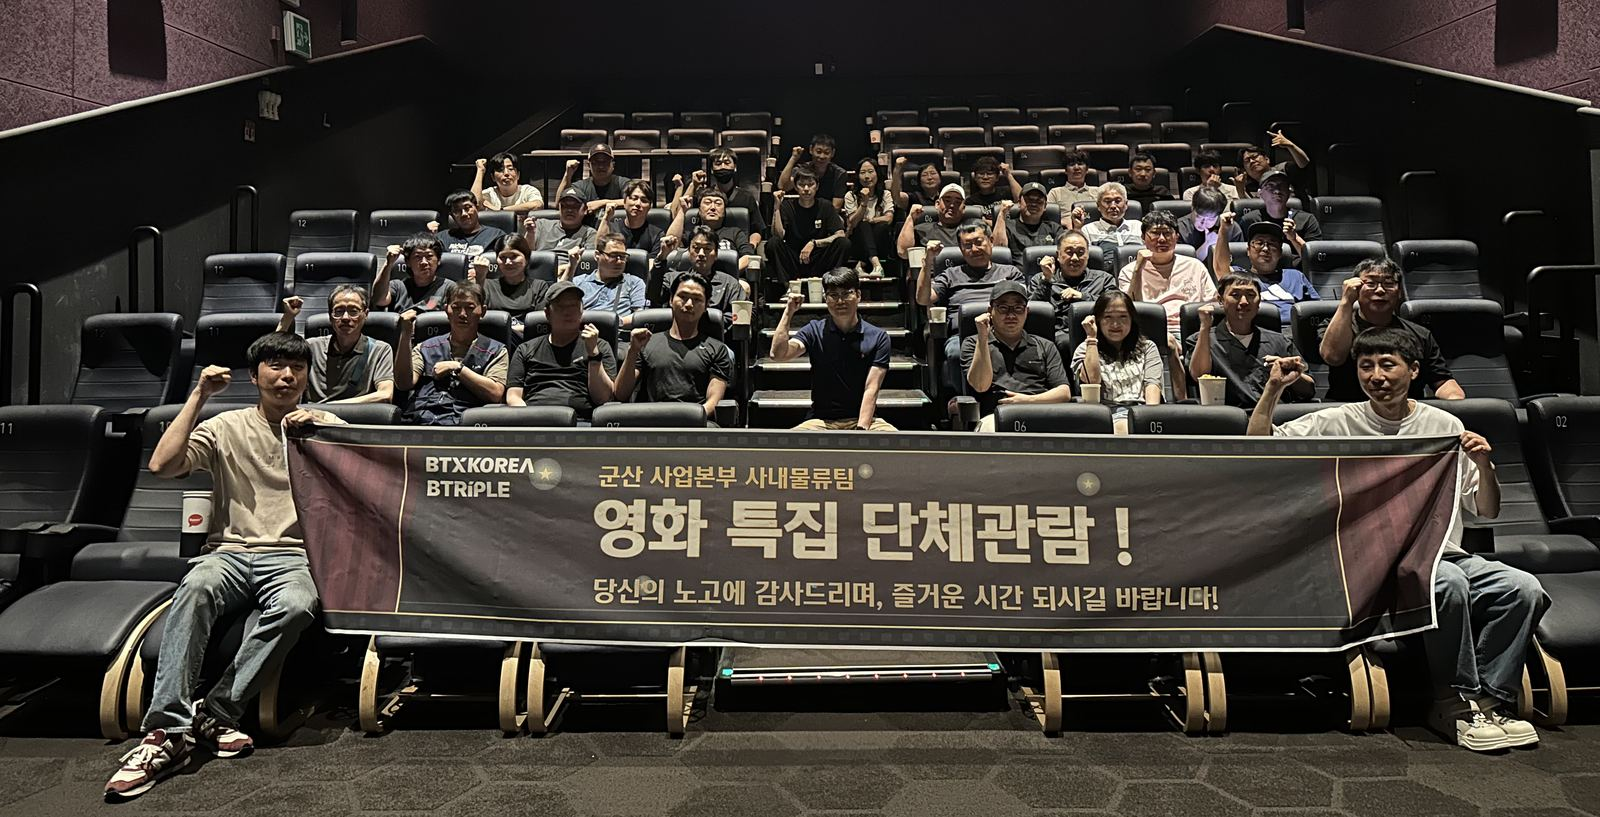
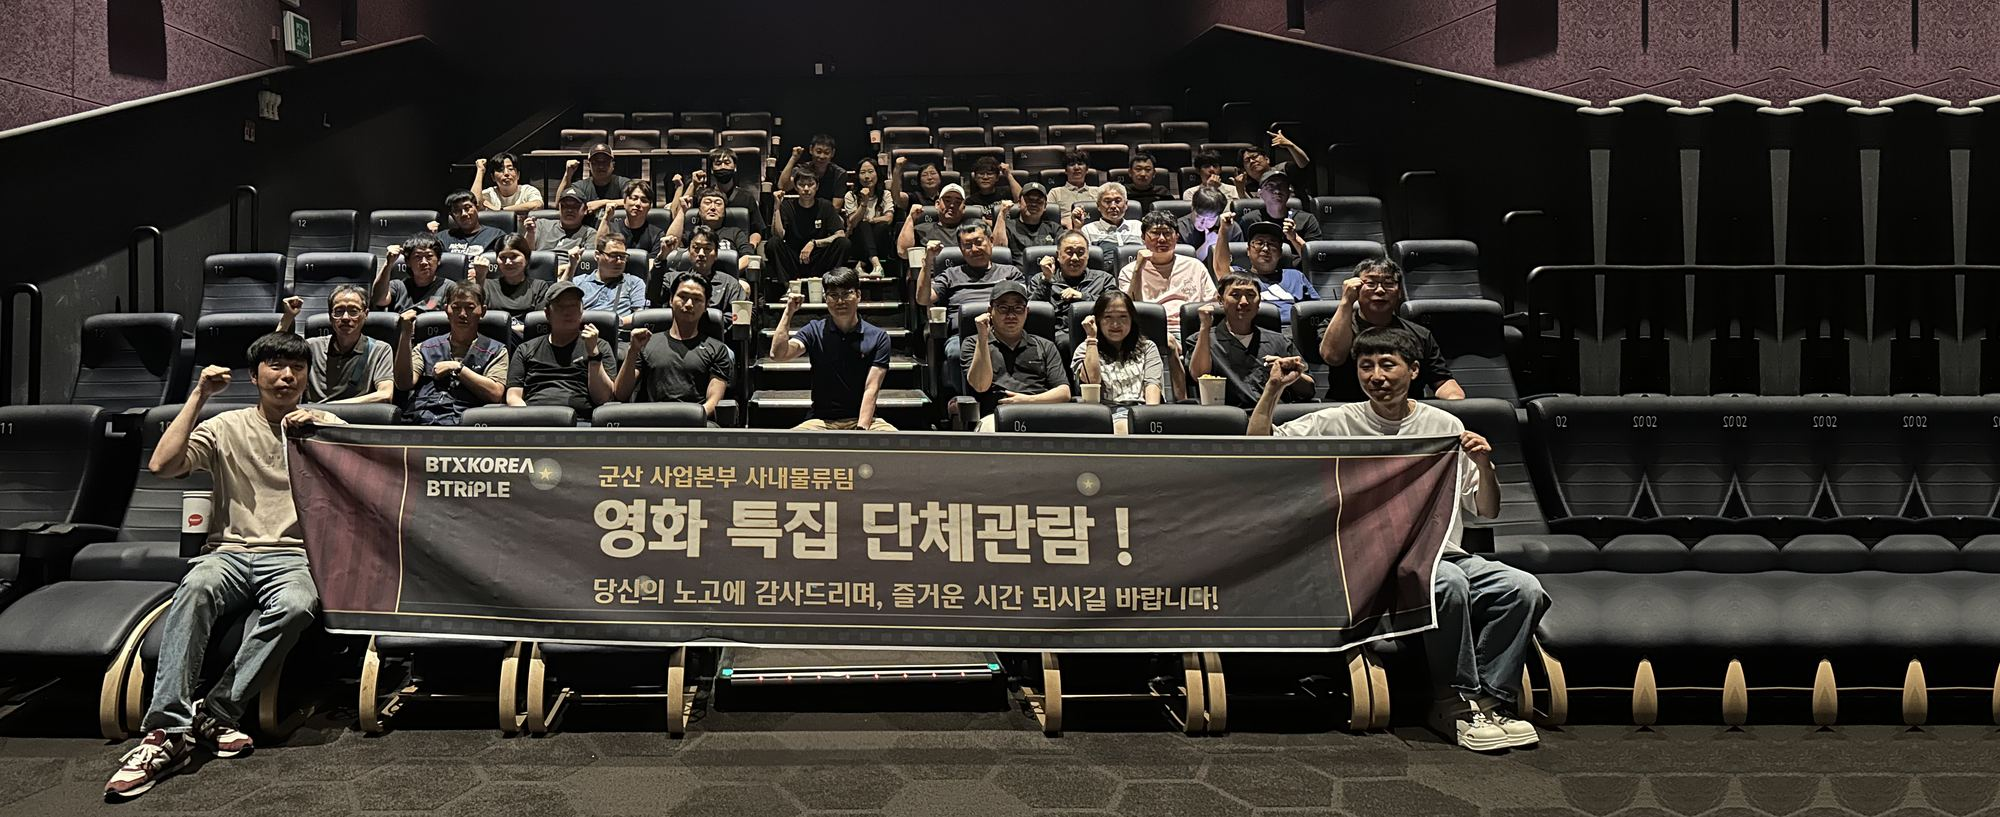
PC 로그인 화면: 흰 번짐 삭제, 오른쪽 파란 번짐, 아래 띠 모양 수정

diff --git a/css/style.css b/css/style.css
@@ -1057,18 +1057,17 @@ table.data select:not([multiple]) { padding-right: 30px; background-position: ri
   -webkit-mask-composite: source-in;
   mask-image: linear-gradient(90deg, #000 0, #000 calc(var(--u) * 17), rgba(0, 0, 0, 0.55) calc(var(--u) * 24), transparent calc(var(--u) * 33)), linear-gradient(180deg, #000 0, #000 30%, rgba(0, 0, 0, 0.72) 45%, rgba(0, 0, 0, 0.72) 100%);
   mask-composite: intersect; }
-/* 단체 사진: 경계선은 직선 두 개(왼쪽 49.6%에서 완만하게, 앞줄 흰 옷 남자 머리 위에서 꺾여 가파르게), 오른쪽으로 갈수록 남색이 진해진다 */
-.la-gbg { background: linear-gradient(90deg, rgba(9, 30, 100, 0) 58%, rgba(9, 30, 100, 0.55) 74%, rgba(9, 30, 100, 0.92) 92%),
-    url(../assets/login/group.jpg) no-repeat calc(var(--u) * -3.85) var(--gtop) / var(--gw) auto, linear-gradient(90deg, #15172a, #0f1e52); }
-.la-group { clip-path: polygon(0 49.6%, var(--kx) 63.1%, 100% 81.2%, 100% 100%, 0 100%); }
-/* 현수막은 아래 남색 띠 위로 올라와 보이게 한 겹 더 놓는다(시안과 같음) */
-.la-banner { z-index: 1; clip-path: polygon(calc(var(--u) * -3.85 + var(--gw) * 0.18) calc(var(--gtop) + var(--gw) * 0.2617), calc(var(--u) * -3.85 + var(--gw) * 0.91) calc(var(--gtop) + var(--gw) * 0.2617),
-  calc(var(--u) * -3.85 + var(--gw) * 0.91) calc(var(--gtop) + var(--gw) * 0.3993), calc(var(--u) * -3.85 + var(--gw) * 0.18) calc(var(--gtop) + var(--gw) * 0.3993)); }
+/* 단체 사진: 경계선은 직선 두 개(왼쪽 49.6%에서 완만하게, 앞줄 흰 옷 남자 머리 위에서 꺾여 가파르게).
+   group.jpg는 원본 사진 오른쪽 끝 빈 좌석 45px를 거울 반복해 400px 늘린 그림(폭 2000px = --gw의 1.25배)이다. 위에 파란 번짐을 오른쪽으로 갈수록 진하게 덮는다. */
+.la-group { background: url(../assets/login/group.jpg) no-repeat calc(var(--u) * -3.85) var(--gtop) / calc(var(--gw) * 1.25) auto, #15172a;
+  clip-path: polygon(0 49.6%, var(--kx) 63.1%, 100% 81.2%, 100% 100%, 0 100%); }
+.la-group::after { content: ""; position: absolute; inset: 0;
+  background: linear-gradient(90deg, rgba(9, 32, 110, 0) 55%, rgba(9, 32, 110, 0.4) 70%, rgba(9, 32, 110, 0.72) 85%, rgba(9, 32, 110, 0.88) 100%); }
 .la-line { position: absolute; inset: 0; background: #eaf3ff;
   clip-path: polygon(0 calc(49.6% - 1.5px), var(--kx) calc(63.1% - 1.5px), 100% calc(81.2% - 1.5px), 100% calc(81.2% + 1.5px), var(--kx) calc(63.1% + 1.5px), 0 calc(49.6% + 1.5px)); }
 .la-line-glow { position: absolute; inset: 0; pointer-events: none; filter: drop-shadow(0 0 2px rgba(150, 195, 255, 1)) drop-shadow(0 0 6px rgba(80, 140, 255, 0.85)) drop-shadow(0 0 12px rgba(60, 120, 255, 0.5)); }
-/* 아래 남색 띠: 왼쪽이 두껍고 오른쪽으로 갈수록 얇아지는 모양(시안 실측: 왼쪽 800px, 105px 지점 817px, 850px 지점 874px, 1078px 지점 915px), 번짐 없음 */
-.la-bar { position: absolute; inset: 0; background: #002470; clip-path: polygon(0 85%, 8.7% 86.8%, 70.6% 92.9%, 78.9% 94.8%, 89.5% 97.2%, 100% 99.7%, 100% 100%, 0 100%); }
+/* 아래 남색 띠(시안 실측): 왼쪽은 세모(800px에서 300px 지점 850px까지 사선), '더 나은 내일'까지는 같은 높이의 막대(850~856px), 그 뒤로 오른쪽 아래로 사선(1078px 지점 915px). 번짐 없음 */
+.la-bar { position: absolute; inset: 0; background: #002470; clip-path: polygon(0 85%, 24.9% 90.3%, 63.1% 91%, 70.6% 92.9%, 78.9% 94.8%, 89.5% 97.2%, 100% 99.7%, 100% 100%, 0 100%); }
 .la-brand { position: absolute; left: calc(var(--u) * 4.8); top: calc(var(--u) * 3.9); display: flex; flex-direction: column; gap: calc(var(--u) * 0.6); z-index: 2; }
 .la-brand img { width: calc(var(--u) * 15.6); height: auto; padding-bottom: calc(var(--u) * 0.45); border-bottom: max(2px, calc(var(--u) * 0.16)) solid var(--orange); }
 .la-brand span { color: #fff; font-size: calc(var(--u) * 1.85); font-weight: 700; letter-spacing: -0.02em; line-height: 1.2; }

diff --git a/js/views/account.js b/js/views/account.js
@@ -72,9 +72,9 @@ Views.login = function () {
   }
   app.replaceChildren(h('div', { class: 'login login-split login-v2' },
     h('section', { class: 'login-art' },
-      h('div', { class: 'la-photo la-field' }), h('div', { class: 'la-photo la-gbg la-group' }),
+      h('div', { class: 'la-photo la-field' }), h('div', { class: 'la-photo la-group' }),
       h('div', { class: 'la-line-glow' }, h('div', { class: 'la-line' })),
-      h('div', { class: 'la-bar' }), h('div', { class: 'la-photo la-gbg la-banner' }),
+      h('div', { class: 'la-bar' }),
       h('div', { class: 'la-brand' }, h('img', { src: 'assets/login/logo-white.png', alt: 'BTRIPLE', width: 483, height: 90 }), h('span', null, '군산 사내물류팀')),
       h('h2', { class: 'la-head' }, '오늘의 현장을', h('br'), h('span', { class: 'la-hand' }, '함께'), ' 만들어갑니다.',
         h('img', { class: 'la-hamkke', src: 'assets/login/hamkke.png', alt: '', width: 176, height: 80 }),
@@ -84,8 +84,7 @@ Views.login = function () {
       svg('<defs><linearGradient id="lcg" x1="1" y1="0" x2="0.35" y2="0.55"><stop offset="0" stop-color="#c9ddfd"/><stop offset="0.16" stop-color="#e7effd"/><stop offset="0.45" stop-color="#f4f7fe"/><stop offset="1" stop-color="#f9fafe"/></linearGradient></defs>'
         + '<path d="M281 0 C 200 50, 120 110, 70 175 S 4 280, 0 340 L0 1000 L1000 1000 L1000 0 Z" fill="url(#lcg)"/>'
         + '<path d="M600 0 L700 0 L1000 210 L1000 320 Z" fill="#ffffff" opacity=".35"/>'
-        + '<path d="M281 0 C 200 50, 120 110, 70 175 S 4 280, 0 340 L0 1000" fill="none" stroke="#ffffff" stroke-width="2" vector-effect="non-scaling-stroke"/>'
-        + '<defs><linearGradient id="lcw" x1="0" y1="0" x2="1" y2="0"><stop offset="0" stop-color="#e3eeff" stop-opacity=".12"/><stop offset=".45" stop-color="#eaf2ff" stop-opacity=".55"/><stop offset="1" stop-color="#f2f6fe" stop-opacity=".95"/></linearGradient></defs><path d="M127 0 L281 0 C 200 50, 120 110, 70 175 L30 255 Z" fill="url(#lcw)"/>', 'lc-shape', '0 0 1000 1000', ' preserveAspectRatio="none"'),
+        + '<path d="M281 0 C 200 50, 120 110, 70 175 S 4 280, 0 340 L0 1000" fill="none" stroke="#ffffff" stroke-width="2" vector-effect="non-scaling-stroke"/>', 'lc-shape', '0 0 1000 1000', ' preserveAspectRatio="none"'),
       svg('<path d="M1080 941 L1080 922 L1150 890 L1600 823 L1672 752 L1672 941 Z" fill="#c9dcfc"/><path d="M1135 941 L1672 810 L1672 941 Z" fill="#82aaf3"/>'
         + '<path d="M1212 941 L1672 846 L1672 941 Z" fill="#0745b0"/><path d="M1310 941 L1672 848 L1672 941 Z" fill="#002574"/>'
         + '<path d="M1450 941 L1672 853 L1672 868 L1478 941 Z" fill="#fc7700"/>', 'lc-deco lc-bottom', '1080 740 592 201', ' preserveAspectRatio="none"'),

diff --git a/index.html b/index.html
@@ -1,5 +1,5 @@
 <!doctype html>
-<html lang="ko" data-ver="20261119k">
+<html lang="ko" data-ver="20261119l">
 <head>
 <meta charset="utf-8">
 <meta name="viewport" content="width=device-width, initial-scale=1, viewport-fit=cover">
@@ -14,7 +14,7 @@
 <link rel="preconnect" href="https://cdn.jsdelivr.net">
 <link rel="stylesheet" href="https://cdn.jsdelivr.net/npm/pretendard@1.3.9/dist/web/variable/pretendardvariable-dynamic-subset.min.css">
 <link rel="stylesheet" href="https://fonts.googleapis.com/css2?family=Nanum+Pen+Script&amp;text=%ED%95%A8%EA%BB%98&amp;display=swap">
-<link rel="stylesheet" href="css/style.css?v=81">
+<link rel="stylesheet" href="css/style.css?v=83">
 </head>
 <body>
 <header id="nav" class="nav" hidden>
@@ -47,7 +47,7 @@
 <script src="js/lib/image.js?v=24"></script>
 <script src="js/lib/push.js?v=3"></script>
 <script src="js/lib/plan.js?v=4"></script>
-<script src="js/views/account.js?v=32"></script>
+<script src="js/views/account.js?v=33"></script>
 <script src="js/views/home.js?v=40"></script>
 <script src="js/views/board.js?v=27"></script>
 <script src="js/views/plan.js?v=3"></script>
